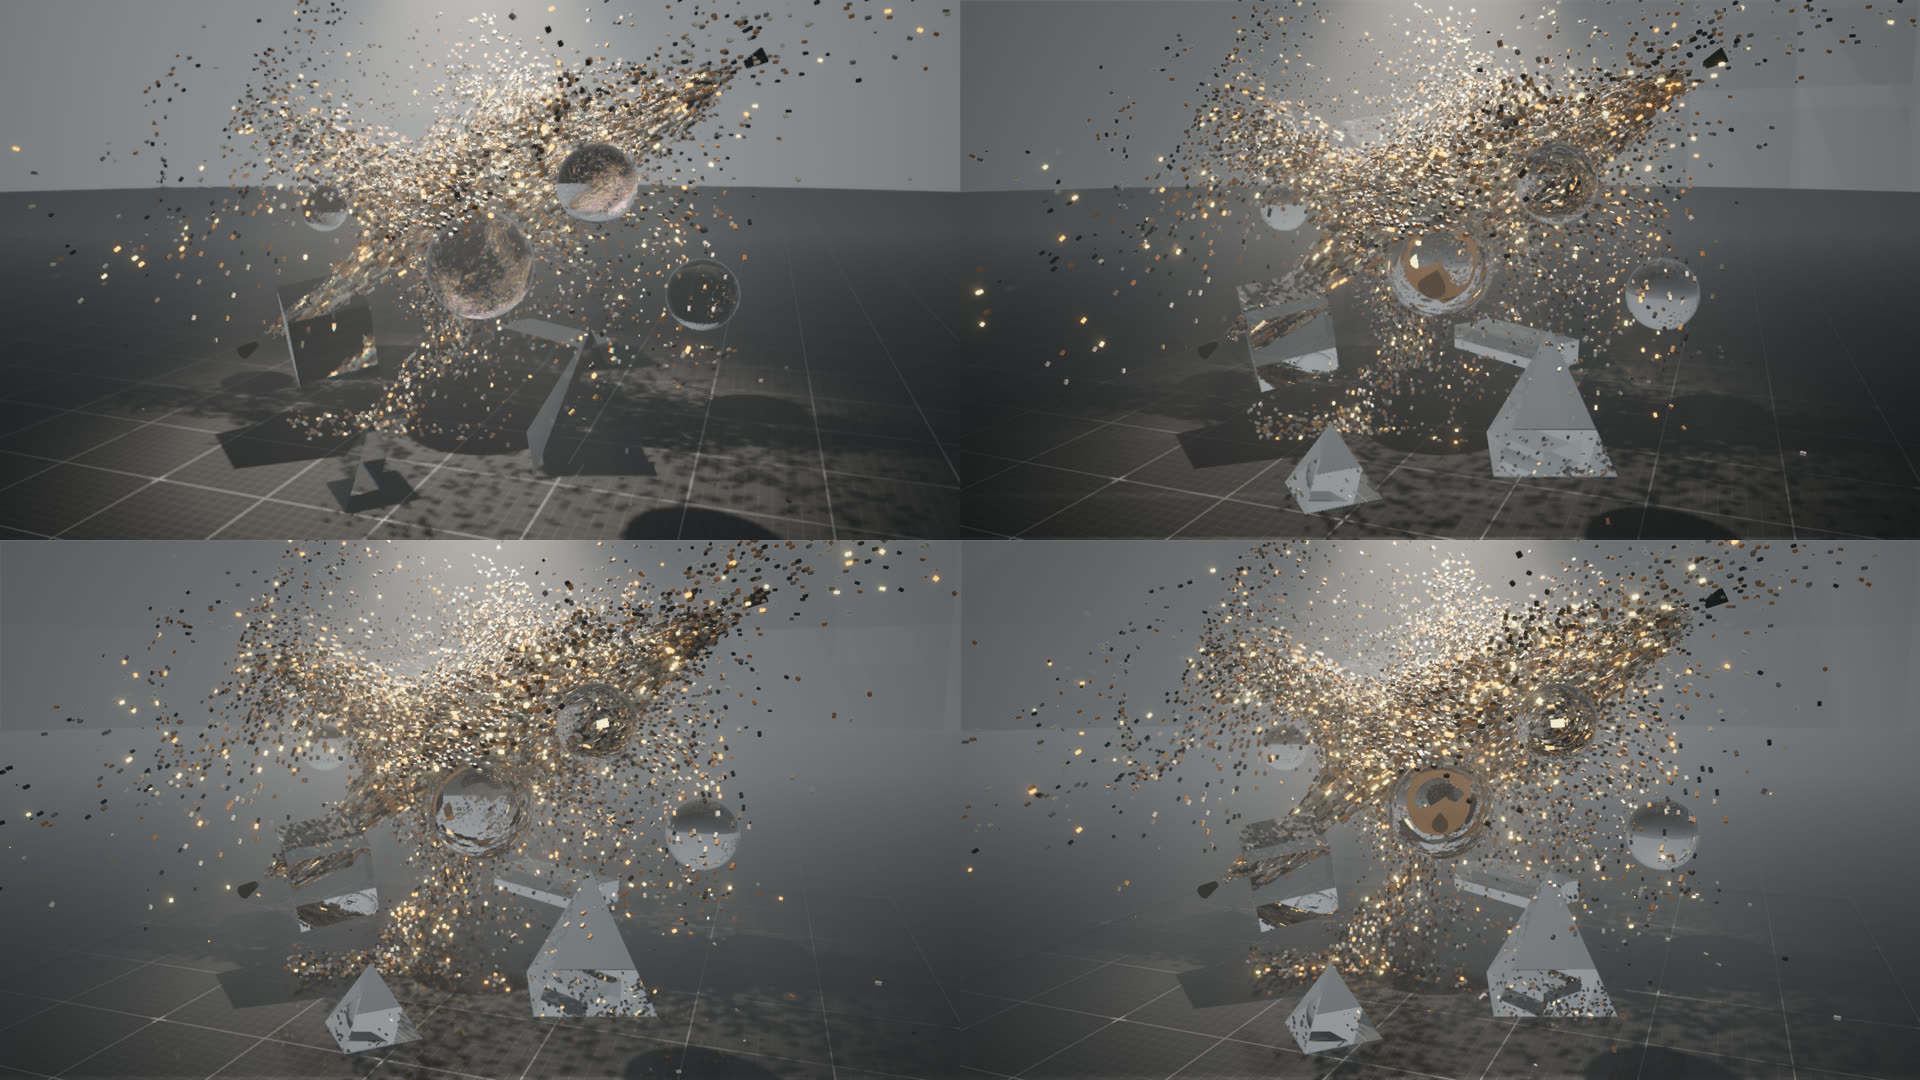
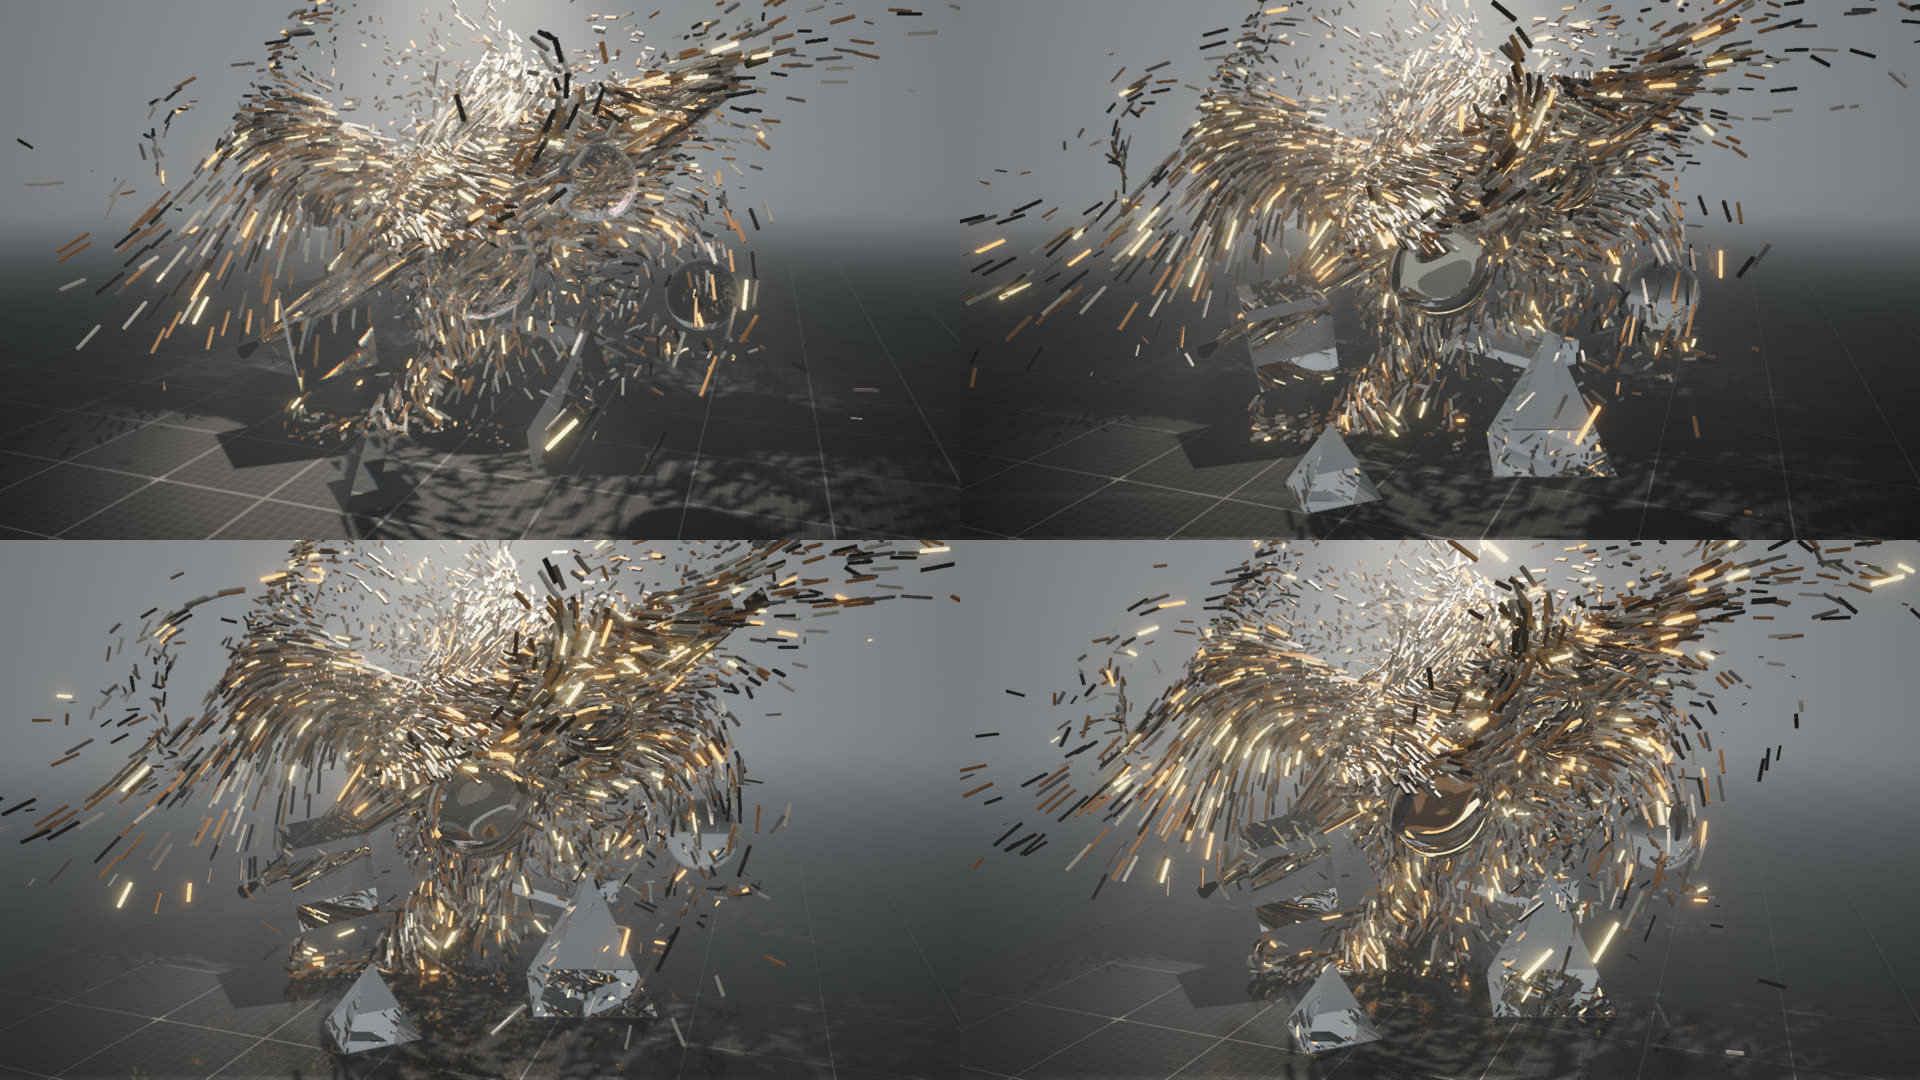
glass-particles: the floor fades into the backdrop at every quality level, stretch 10 by default and held clear of the glass and the floor, no depth of field at LOW

diff --git a/rust/kansei-wasm/demos/glass-particles/www/index.html b/rust/kansei-wasm/demos/glass-particles/www/index.html
@@ -95,7 +95,7 @@
 
         const look = pane.addFolder({ title: 'Particles', expanded: false });
         look.addBinding(p, 'glow', { label: 'glow (cd/m²)', min: 0, max: 300, step: 0.5 }).on('change', set('glow'));
-        look.addBinding(p, 'stretch', { label: 'stretch at 1 m/s', min: 0, max: 4, step: 0.01 }).on('change', set('stretch'));
+        look.addBinding(p, 'stretch', { label: 'stretch at 1 m/s', min: 0, max: 20, step: 0.1 }).on('change', set('stretch'));
         look.addBinding(p, 'roughness', { min: 0.02, max: 1, step: 0.01 }).on('change', set('roughness'));
         look.addBinding(p, 'metallic', { min: 0, max: 1, step: 0.01 }).on('change', set('metallic'));
 
@@ -176,6 +176,16 @@
             f.addBinding(p, 'reflQuarter', { label: 'trace 1 in 4x4' }).on('change', set('reflQuarter'));
             f.addBinding(p, 'reflBlend', { label: 'new frame weight', min: 0.02, max: 1, step: 0.01 }).on('change', set('reflBlend'));
         });
+        // the far floor (and anything far) fades into the backdrop behind it by its distance from
+        // the scene's centre, all of it by the dome
+        pass('Distance fade', 'fade', {
+            near: { fadeStart: 5, fadeEnd: 20 },
+            default: { fadeStart: 7, fadeEnd: 30 },
+            far: { fadeStart: 12, fadeEnd: 44 },
+        }, (f) => {
+            f.addBinding(p, 'fadeStart', { label: 'start (m)', min: 0, max: 45, step: 0.5 }).on('change', set('fadeStart'));
+            f.addBinding(p, 'fadeEnd', { label: 'end (m)', min: 1, max: 45, step: 0.5 }).on('change', set('fadeEnd'));
+        });
         pass('Volumetric fog', 'fog', {
             low: { fogSteps: 0 },
             medium: { fogSteps: 16 },
@@ -240,22 +250,22 @@
         // each, so about that share of the particles flies) ──
         const QUALITY = {
             LOW: {
-                passes: { SSAO: false, Glass: 'fast (screen space)', 'Floor reflections': false, 'Volumetric fog': 'low', TAA: 'default', 'Depth of field': 'default', Bloom: 'default', 'Tone map': 'default' },
-                values: { renderScale: 0.5, dofSamples: 16, glassInterfaces: 8 },
+                passes: { SSAO: false, Glass: 'fast (screen space)', 'Floor reflections': false, 'Distance fade': 'default', 'Volumetric fog': 'low', TAA: 'default', 'Depth of field': false, Bloom: 'default', 'Tone map': 'default' },
+                values: { renderScale: 0.5, glassInterfaces: 8 },
                 rate: 0.5,
             },
             MID: {
-                passes: { SSAO: 'default', Glass: 'clear', 'Floor reflections': false, 'Volumetric fog': 'medium', TAA: 'default', 'Depth of field': 'default', Bloom: 'default', 'Tone map': 'default' },
+                passes: { SSAO: 'default', Glass: 'clear', 'Floor reflections': false, 'Distance fade': 'default', 'Volumetric fog': 'medium', TAA: 'default', 'Depth of field': 'default', Bloom: 'default', 'Tone map': 'default' },
                 values: { glassMode: 0, renderScale: 0.7, aoSamples: 8, dofSamples: 24, glassInterfaces: 4 },
                 rate: 0.75,
             },
             HIGH: {
-                passes: { SSAO: 'default', Glass: 'clear', 'Floor reflections': 'low', 'Volumetric fog': 'medium', TAA: 'default', 'Depth of field': 'default', Bloom: 'default', 'Tone map': 'default' },
+                passes: { SSAO: 'default', Glass: 'clear', 'Floor reflections': 'low', 'Distance fade': 'default', 'Volumetric fog': 'medium', TAA: 'default', 'Depth of field': 'default', Bloom: 'default', 'Tone map': 'default' },
                 values: { glassMode: 0, renderScale: 0.85, aoSamples: 12, dofSamples: 32, glassInterfaces: 6 },
                 rate: 1,
             },
             EPIC: {
-                passes: { SSAO: 'default', Glass: 'clear', 'Floor reflections': 'default', 'Volumetric fog': 'default', TAA: 'default', 'Depth of field': 'default', Bloom: 'default', 'Tone map': 'default' },
+                passes: { SSAO: 'default', Glass: 'clear', 'Floor reflections': 'default', 'Distance fade': 'default', 'Volumetric fog': 'default', TAA: 'default', 'Depth of field': 'default', Bloom: 'default', 'Tone map': 'default' },
                 values: { glassMode: 0, renderScale: 1, glassInterfaces: 8 },
                 rate: 1,
             },

diff --git a/rust/kansei-wasm/demos/glass-particles/src/lib.rs b/rust/kansei-wasm/demos/glass-particles/src/lib.rs
@@ -52,7 +52,7 @@ use kansei_core::materials::{Binding, BindingResource, Compute, GradientSkyOptio
 use kansei_core::math::{Vec3, Vec4};
 use kansei_core::objects::{Renderable, Scene, SceneNode};
 use kansei_core::postprocessing::effects::{
-    exposure_from_ev100, BloomEffect, BloomOptions, CameraLens, CinematicDepthOfFieldEffect, CinematicDepthOfFieldOptions, SSAOEffect, SSAOOptions, ScreenSpaceGlassEffect, ScreenSpaceGlassOptions, SpotScattering, TemporalAAEffect, TemporalAAOptions,
+    exposure_from_ev100, BloomEffect, BloomOptions, CameraLens, CinematicDepthOfFieldEffect, CinematicDepthOfFieldOptions, DistanceFogColor, DistanceFogEffect, SSAOEffect, SSAOOptions, ScreenSpaceGlassEffect, ScreenSpaceGlassOptions, SpotScattering, TemporalAAEffect, TemporalAAOptions,
     ToneMapEffect, ToneMapOptions, ToneMapper, VolumetricFogEffect, VolumetricFogOptions,
 };
 use kansei_core::postprocessing::{PostProcessingEffect, PostProcessingVolume};
@@ -574,6 +574,11 @@ struct Settings {
     grid_cross_width: f32,
     grid_cross_arm: f32,
     paused: bool,
+    /// The fade of the far floor into the backdrop (`DistanceFogEffect`), from and to (m from the
+    /// scene's centre, so the set stays clear wherever the camera is).
+    fade: bool,
+    fade_start: f32,
+    fade_end: f32,
 }
 
 impl Default for Settings {
@@ -596,7 +601,7 @@ impl Settings {
             repel_range: 0.35,
             repel_strength: 9.0,
             bounce: 0.35,
-            stretch: 0.9,
+            stretch: 10.0,
             glow: 40.0,
             palette: 0,
             mouse_force: 6.0,
@@ -668,6 +673,9 @@ impl Settings {
             grid_cross_width: 0.016,
             grid_cross_arm: 0.07,
             paused: false,
+            fade: true,
+            fade_start: 7.0,
+            fade_end: 30.0,
         }
     }
 }
@@ -719,6 +727,7 @@ impl Settings {
             "bloom" => bloom, "bloomThreshold" => bloom_threshold, "glassIor" => glass_ior, "glassRoughness" => glass_roughness, "glassShadows" => glass_shadows, "glassMode" => glass_mode,
             "skyUp" => sky_up, "skyDown" => sky_down, "reflections" => reflections, "ao" => ao, "gridSpacing" => grid_spacing, "gridMajorEvery" => grid_major_every, "gridMinorWidth" => grid_minor_width, "gridMajorWidth" => grid_major_width,
             "gridCrossWidth" => grid_cross_width, "gridCrossArm" => grid_cross_arm, "paused" => paused,
+            "fade" => fade, "fadeStart" => fade_start, "fadeEnd" => fade_end,
             "ssao" => ssao, "aoRadius" => ao_radius, "aoBias" => ao_bias, "aoSamples" => ao_samples, "glassPass" => glass_pass, "ssThickness" => ss_thickness,
             "ssBehind" => ss_behind, "ssDispersion" => ss_dispersion, "glassInterfaces" => glass_interfaces, "reflIntensity" => refl_intensity,
             "reflDistance" => refl_distance, "reflQuarter" => refl_quarter, "reflBlend" => refl_blend, "fog" => fog, "fogFalloff" => fog_falloff,
@@ -773,6 +782,9 @@ impl Settings {
             "gridCrossWidth" => self.grid_cross_width = v.max(0.0),
             "gridCrossArm" => self.grid_cross_arm = v.clamp(0.0, 0.5),
             "paused" => self.paused = v != 0.0,
+            "fade" => self.fade = v != 0.0,
+            "fadeStart" => self.fade_start = v.max(0.0),
+            "fadeEnd" => self.fade_end = v.max(0.0),
             "ssao" => self.ssao = v != 0.0,
             "aoRadius" => self.ao_radius = v.max(0.01),
             "aoBias" => self.ao_bias = v.max(0.0),
@@ -1117,10 +1129,20 @@ fn floor_grid(s: &Settings) -> FloorGpu {
 /// horizon (the mean, so it runs linearly in the height as `gi::gradient_sky_lighting` does) and
 /// below.
 fn backdrop(s: &Settings) -> [f32; 12] {
-    let (up, down) = (sky_rgb(s.sky_up), sky_rgb(s.sky_down));
-    let mid = [0, 1, 2].map(|k| 0.5 * (up[k] + down[k]));
-    [up[0], up[1], up[2], 1.0, mid[0], mid[1], mid[2], 0.0, down[0], down[1], down[2], 0.0]
+    let sky = backdrop_sky(s);
+    let ([zr, zg, zb], [hr, hg, hb], [gr, gg, gb]) = (sky.zenith, sky.horizon, sky.ground);
+    [zr, zg, zb, sky.curve, hr, hg, hb, 0.0, gr, gg, gb, 0.0]
 }
+
+fn backdrop_sky(s: &Settings) -> GradientSkyOptions {
+    let (up, down) = (sky_rgb(s.sky_up), sky_rgb(s.sky_down));
+    let rgb = |c: [f32; 4]| [c[0], c[1], c[2]];
+    let mid = [0, 1, 2].map(|k| 0.5 * (up[k] + down[k]));
+    GradientSkyOptions { zenith: rgb(up), horizon: mid, ground: rgb(down), curve: 1.0 }
+}
+
+/// The backdrop's radius (m), round the origin.
+const DOME_RADIUS: f32 = 45.0;
 
 /// The environment's colour: a cool white.
 fn sky_rgb(radiance: f32) -> [f32; 4] {
@@ -1324,6 +1346,13 @@ impl State {
             bloom.exposure = total;
             bloom.options = BloomOptions { threshold: s.bloom_threshold, knee: s.bloom_knee, intensity: s.bloom, radius: s.bloom_radius, use_emissive: s.bloom_emissive };
         }
+        self.volume.set_enabled::<DistanceFogEffect>(s.fade);
+        if let Some(fade) = self.volume.effect_mut::<DistanceFogEffect>() {
+            fade.start = s.fade_start;
+            fade.end = s.fade_end;
+            fade.color = DistanceFogColor::GradientSky { sky: backdrop_sky(&s), centre: Vec3::ZERO, radius: DOME_RADIUS };
+            fade.from_point = Some(Vec3::ZERO);
+        }
         let fog_back = s.fog && !self.volume.is_enabled::<VolumetricFogEffect>();
         self.volume.set_enabled::<VolumetricFogEffect>(s.fog);
         if let Some(fog) = self.volume.effect_mut::<VolumetricFogEffect>() {
@@ -1449,6 +1478,7 @@ pub async fn start(canvas_id: &str) -> Result<(), JsValue> {
     settings.ev100 = param_or("ev", settings.ev100);
     settings.dof = flag("dof", true);
     settings.fog = flag("fog", true);
+    settings.fade = flag("fade", true);
     settings.glass_mode = param_or("glassmode", 0u32).min(1);
     settings.render_scale = param_or("scale", 1.0f32).clamp(0.25, 1.0);
 
@@ -1485,7 +1515,7 @@ pub async fn start(canvas_id: &str) -> Result<(), JsValue> {
     let floor = scene.add(SceneNode::Renderable(floor));
 
     // the environment round it all: the sky the glass and the floor reflect, drawn
-    let mut dome = Renderable::new(SphereGeometry::new(45.0, 48, 24), Material::gradient_sky("Backdrop", &GradientSkyOptions { curve: 1.0, ..Default::default() }));
+    let mut dome = Renderable::new(SphereGeometry::new(DOME_RADIUS, 48, 24), Material::gradient_sky("Backdrop", &GradientSkyOptions { curve: 1.0, ..Default::default() }));
     dome.cast_shadow = false;
     let backdrop = scene.add(SceneNode::Renderable(dome));
 
@@ -1574,6 +1604,8 @@ pub async fn start(canvas_id: &str) -> Result<(), JsValue> {
         effects.push(Box::new(rt));
     }
     effects.push(Box::new(ScreenSpaceGlassEffect::new(ScreenSpaceGlassOptions::default())));
+    // the far floor fades into the backdrop behind it, so it never ends on a line
+    effects.push(Box::new(DistanceFogEffect::new(settings.fade_start, settings.fade_end, DistanceFogColor::Constant([0.0; 3]))));
     {
         let mut fog = VolumetricFogEffect::new(VolumetricFogOptions {
             grid: FroxelGridOptions { near: 0.1, far: 24.0, temporal: true, ..Default::default() },

diff --git a/rust/kansei-wasm/demos/glass-particles/README.md b/rust/kansei-wasm/demos/glass-particles/README.md
@@ -1,7 +1,7 @@
 # Glass particles
 
 Two emitters pour particles, each a small box turned to the way it moves (stretched with its
-speed), through a scatter of glass spheres, boxes and pyramids over a polished floor with a
+speed, but never into the glass or the floor), through a scatter of glass spheres, boxes and pyramids over a polished floor with a
 technical grid, under a spot light from above. Curl noise carries them, so the flow swirls; the
 glass pushes them off by its distance fields; the pointer pushes them along its motion. A share
 of them glow, and only those bloom. The glass refracts and reflects the particles, the floor's
@@ -22,14 +22,16 @@ albedo and glow from its instance record, packed by `rt::RT_EMISSION_WGSL` and
 `rt::pack_emission`), `Renderable::rt_placement` (`RtPlacement::Wgsl`); `RtReflectionsEffect`
 (`set_glass`, `reflections`, `set_spot_lights`, `set_sky_lighting` with
 `gi::gradient_sky_lighting`, `RtReflectionsOptions::albedo_wgsl` for the floor's grid where the
-rays meet it); `ScreenSpaceGlassEffect`, `SSAOEffect`, `VolumetricFogEffect`
+rays meet it); `ScreenSpaceGlassEffect`, `SSAOEffect`, `DistanceFogEffect`
+(`DistanceFogColor::GradientSky`, `from_point`), `VolumetricFogEffect`
 (`SpotScattering::Raymarched`), `TemporalAAEffect`, `CinematicDepthOfFieldEffect`, `BloomEffect`
 with `BloomOptions::use_emissive`, `ToneMapEffect` in a `PostProcessingVolume`;
 `CameraControls::with_mouse_pan`, `MouseVectors`.
 
 Demo-local: the particle simulation (`src/shaders/particles_sim.wgsl`: the respawns against each
 emitter's budget a frame, curl noise from analytic gradient noise, the repellers' distance fields
-and their pushes, the pointer's push, the live particles compacted into the instance records, and
+and their pushes, each box's stretch held to half the room those fields and the floor leave it,
+the pointer's push, the live particles compacted into the instance records, and
 the events the sounds and the stats count; `particles_clear.wgsl` clears the records past the live
 ones, so every pass draws as many as are alive, a bound read back a few frames late), the boxes'
 material (`particles_draw.wgsl`), the floor's grid (`floor.wgsl`, `floor_grid.wgsl`, also baked
@@ -47,7 +49,7 @@ grid, the lighting presets, the palettes, the page's panel and its sounds.
 | `ev=<EV100>` | exposure, over the preset's |
 | `glassmode=1` | the glass in screen space (`ScreenSpaceGlassEffect`) instead of ray traced |
 | `glass=0` | the repellers drawn grey instead of glass: no ray tracing grid, voxels or reflections |
-| `fog=0`, `dof=0` | no mist, no depth of field |
+| `fog=0`, `dof=0`, `fade=0` | no mist, no depth of field, no distance fade |
 | `scale=<0.25..1>` | render scale: the scene's passes at that share of the canvas, the TAA upscaling |
 | `perf=0` | no performance overlay (shown by default; the backquote key toggles it) |
 | `ui=0` | hide the panel |
@@ -64,6 +66,8 @@ repellers (reach and push of their fields, bounce, whether they cast shadows); t
 look; the floor grid (colours, spacing, line widths); the light and the environment; and a
 Post-processing folder with one folder a pass, in the chain's order: SSAO, the glass (ray traced
 or screen space; off, the repellers are polished grey solids), the floor's reflections, the
+distance fade (`DistanceFogEffect`: the floor fades into the backdrop behind it between a start and
+an end distance from the scene's centre, all of it by the dome, so it never ends on a line), the
 volumetric fog, TAA (and the render scale), depth of field, bloom and the tone mapper. Each has an
 on/off that takes the pass out of the chain (`PostProcessingVolume::set_enabled`, so the perf
 overlay shows what it saves), a preset (subtle / default / strong, or quality levels for the
